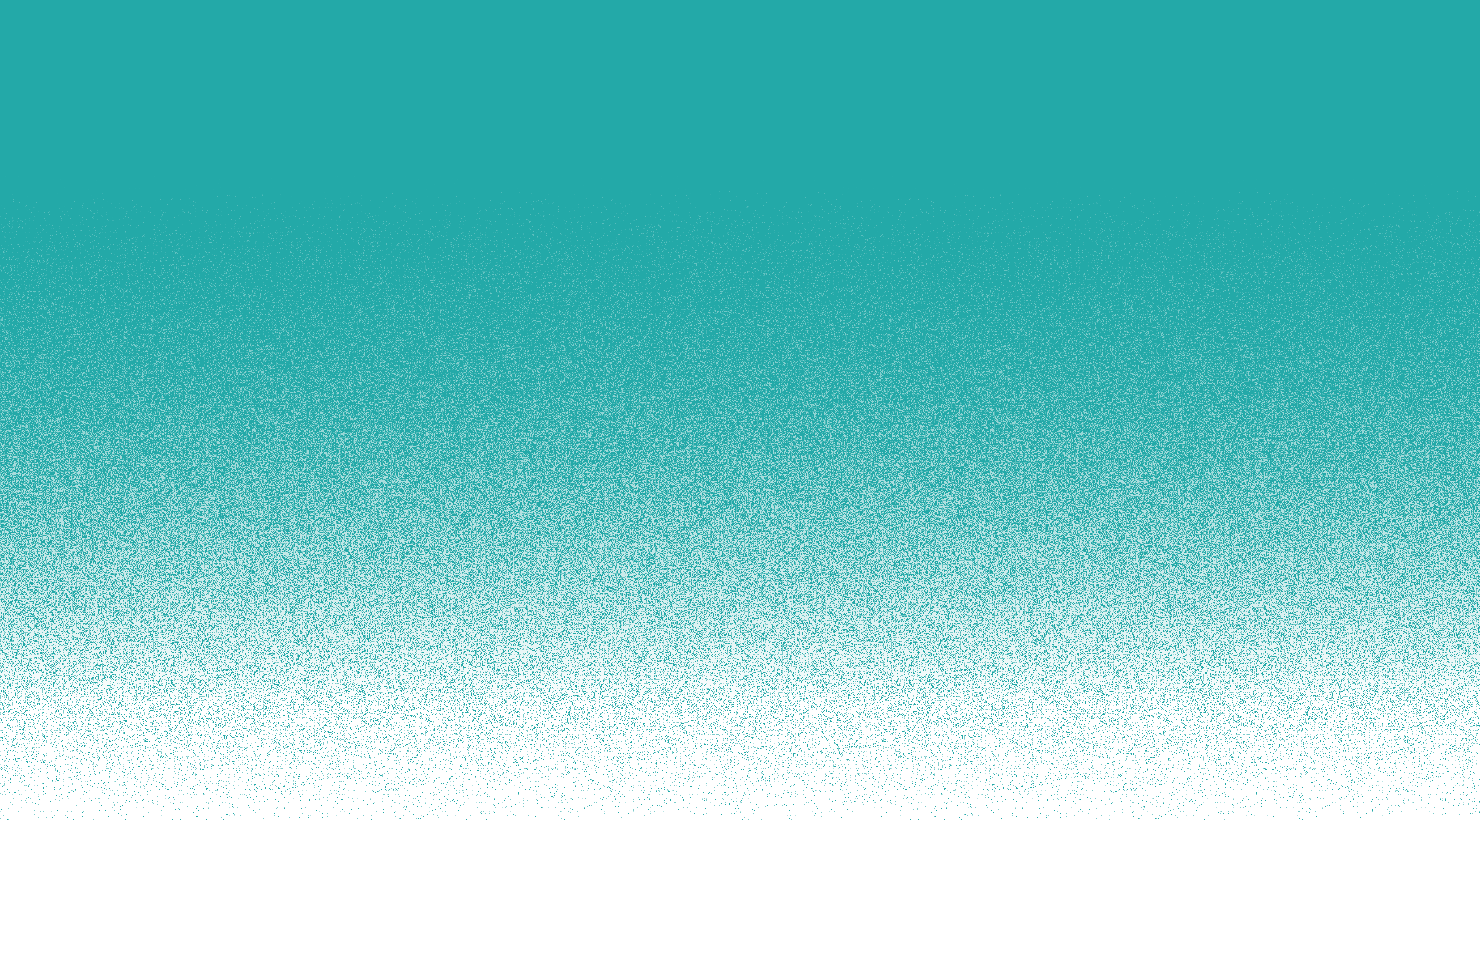
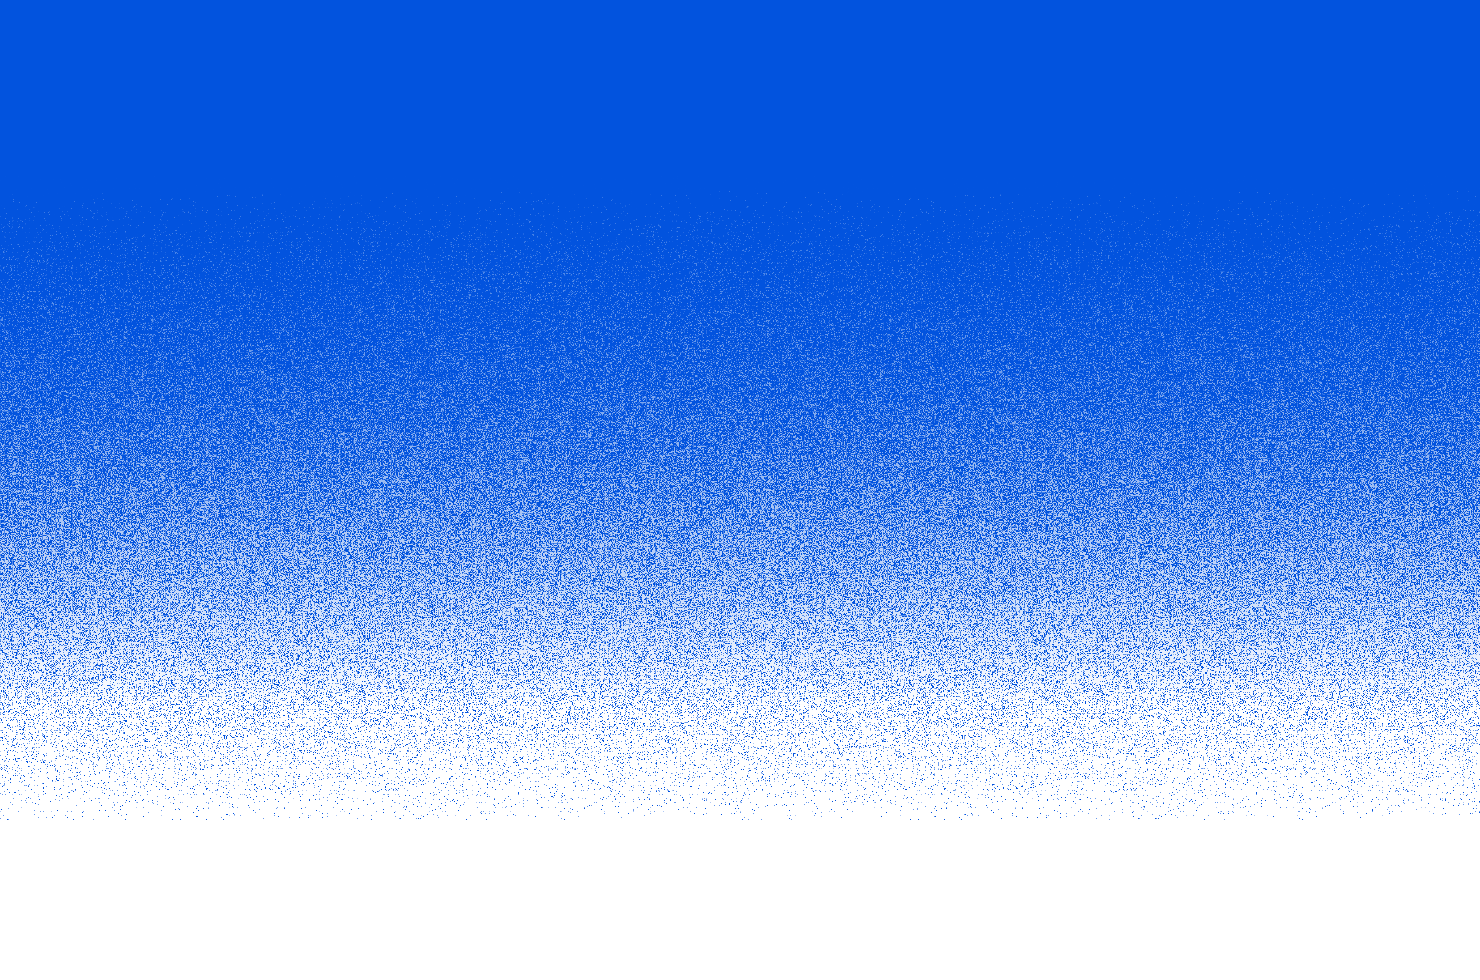
Trialling blue

diff --git a/assets/css/2016.scss b/assets/css/2016.scss
@@ -4,7 +4,9 @@
 @charset "utf-8";
 
 // Variables
-$primary: #23A9A8;
+// $primary: #23A9A8;
+// $primary: #00857c;
+$primary: #0253de;
 
 $break-mobile: 42.25rem;
 $break-form: 48.75rem;
